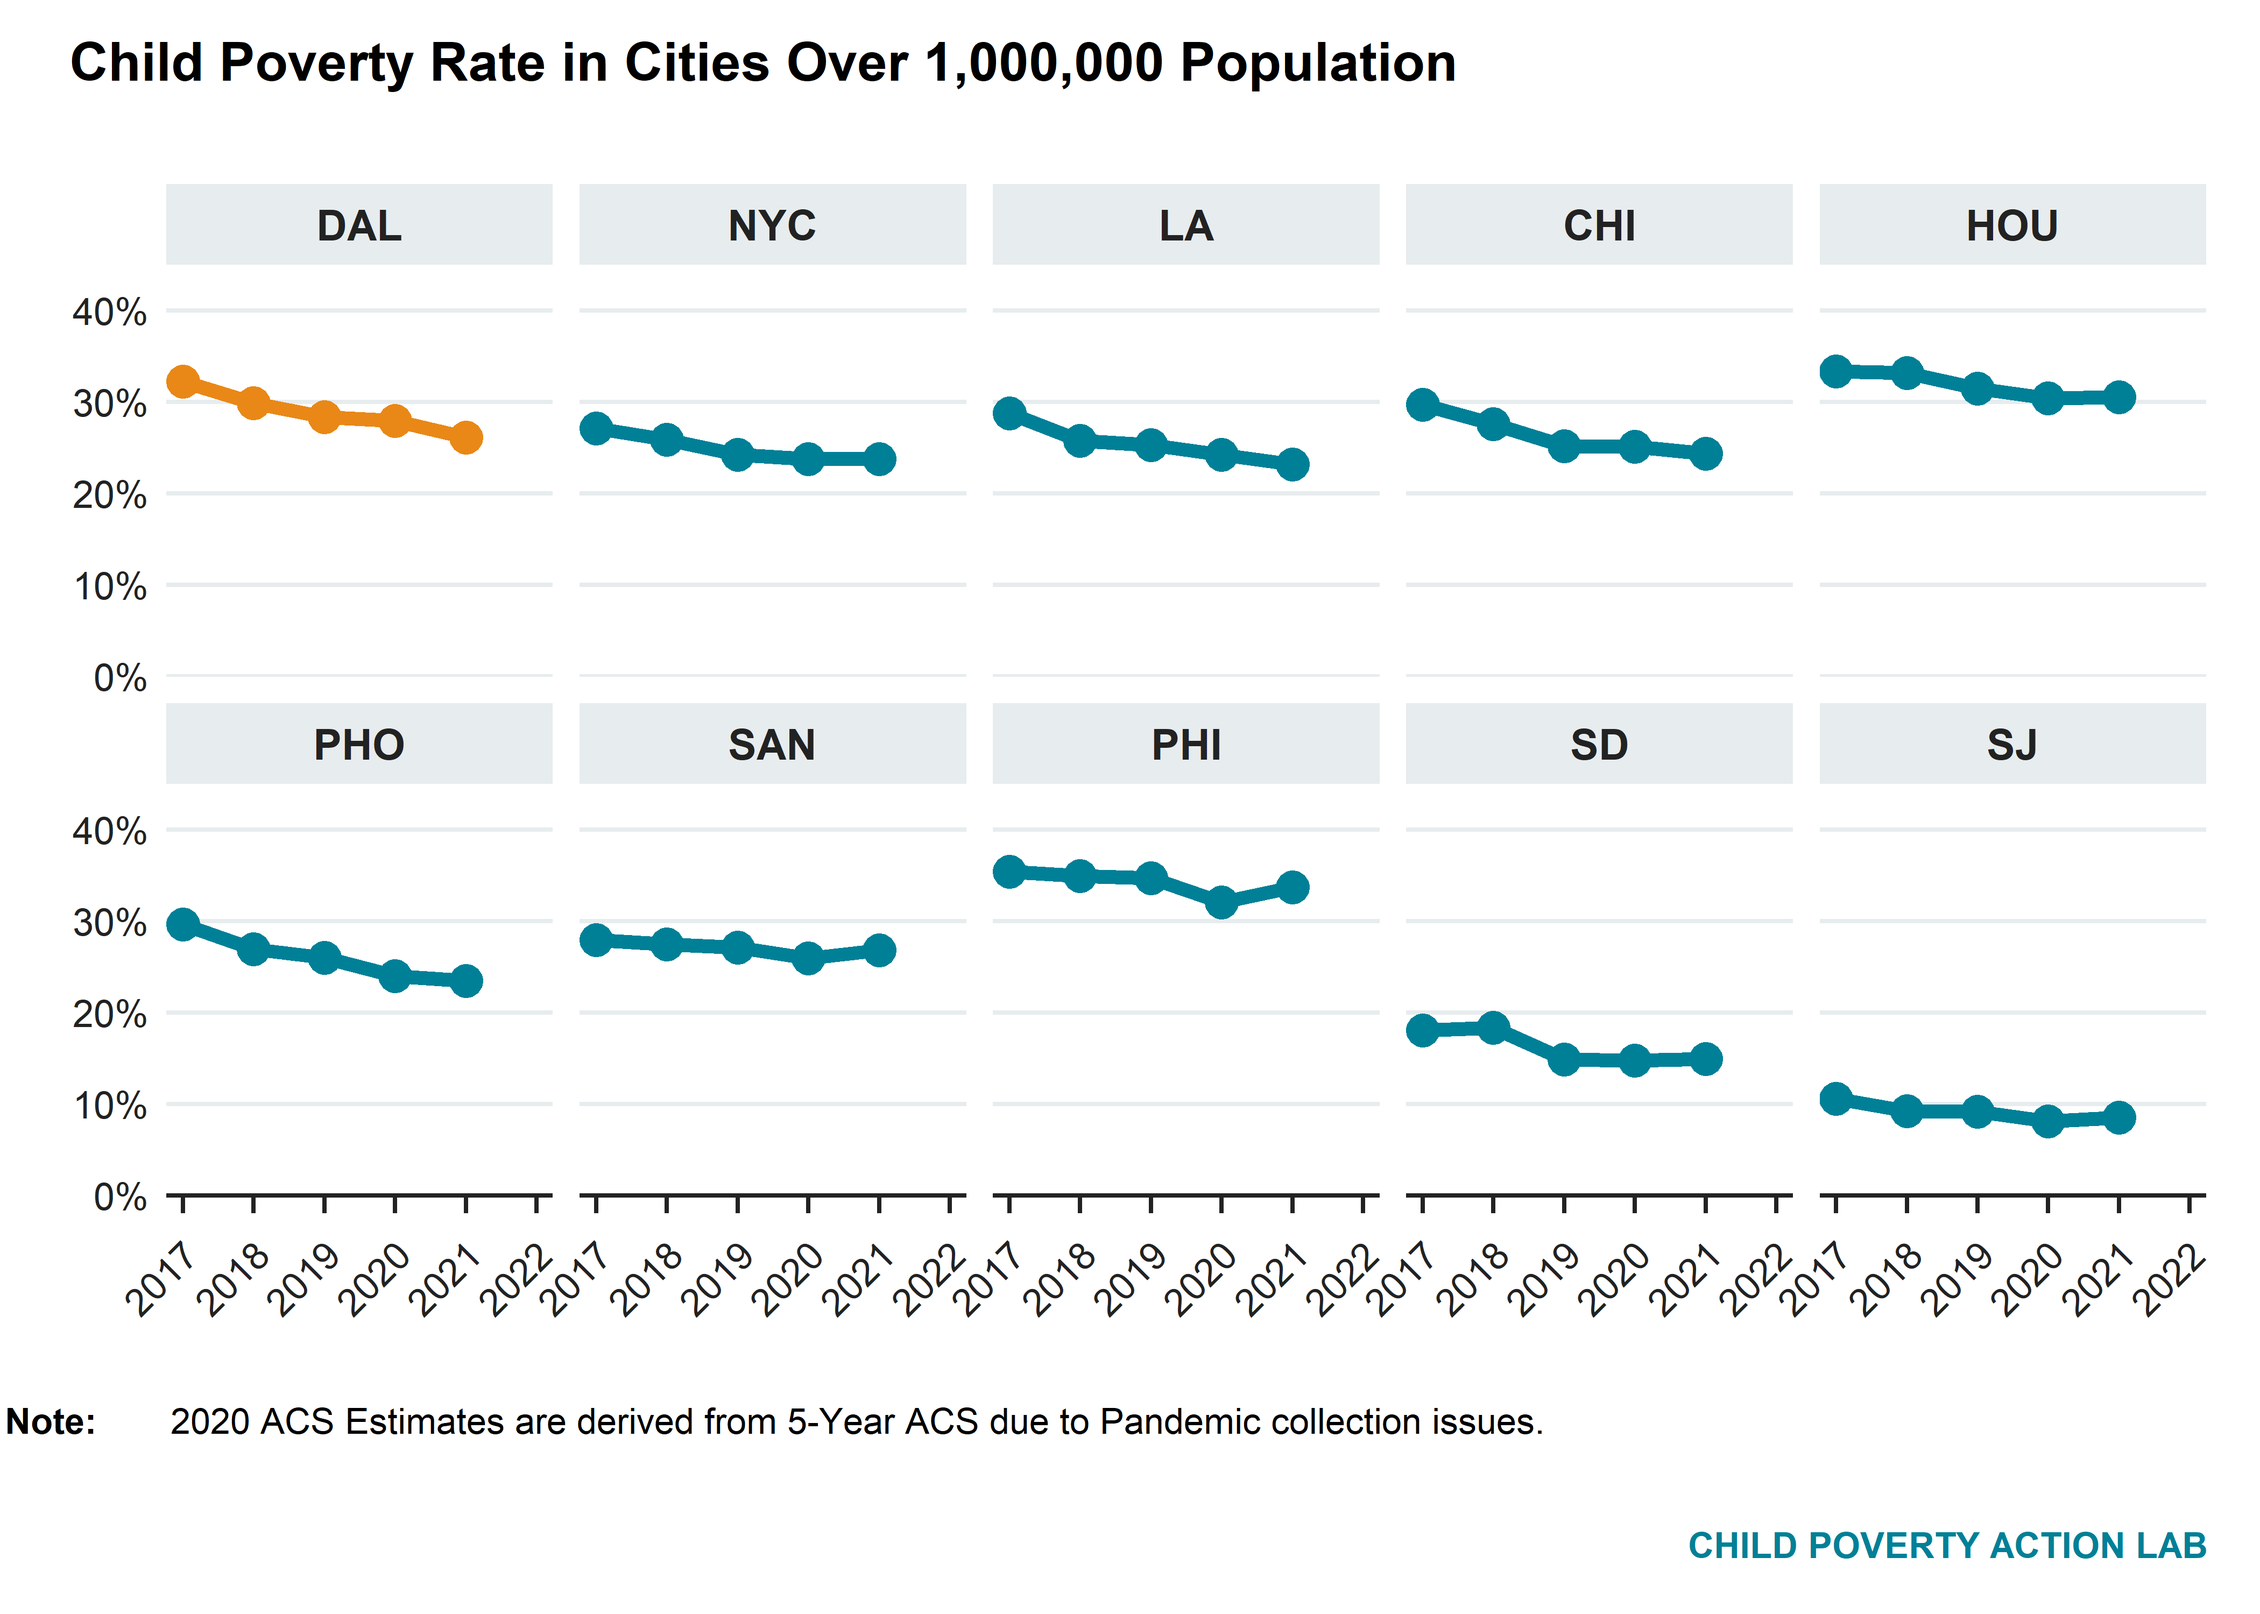
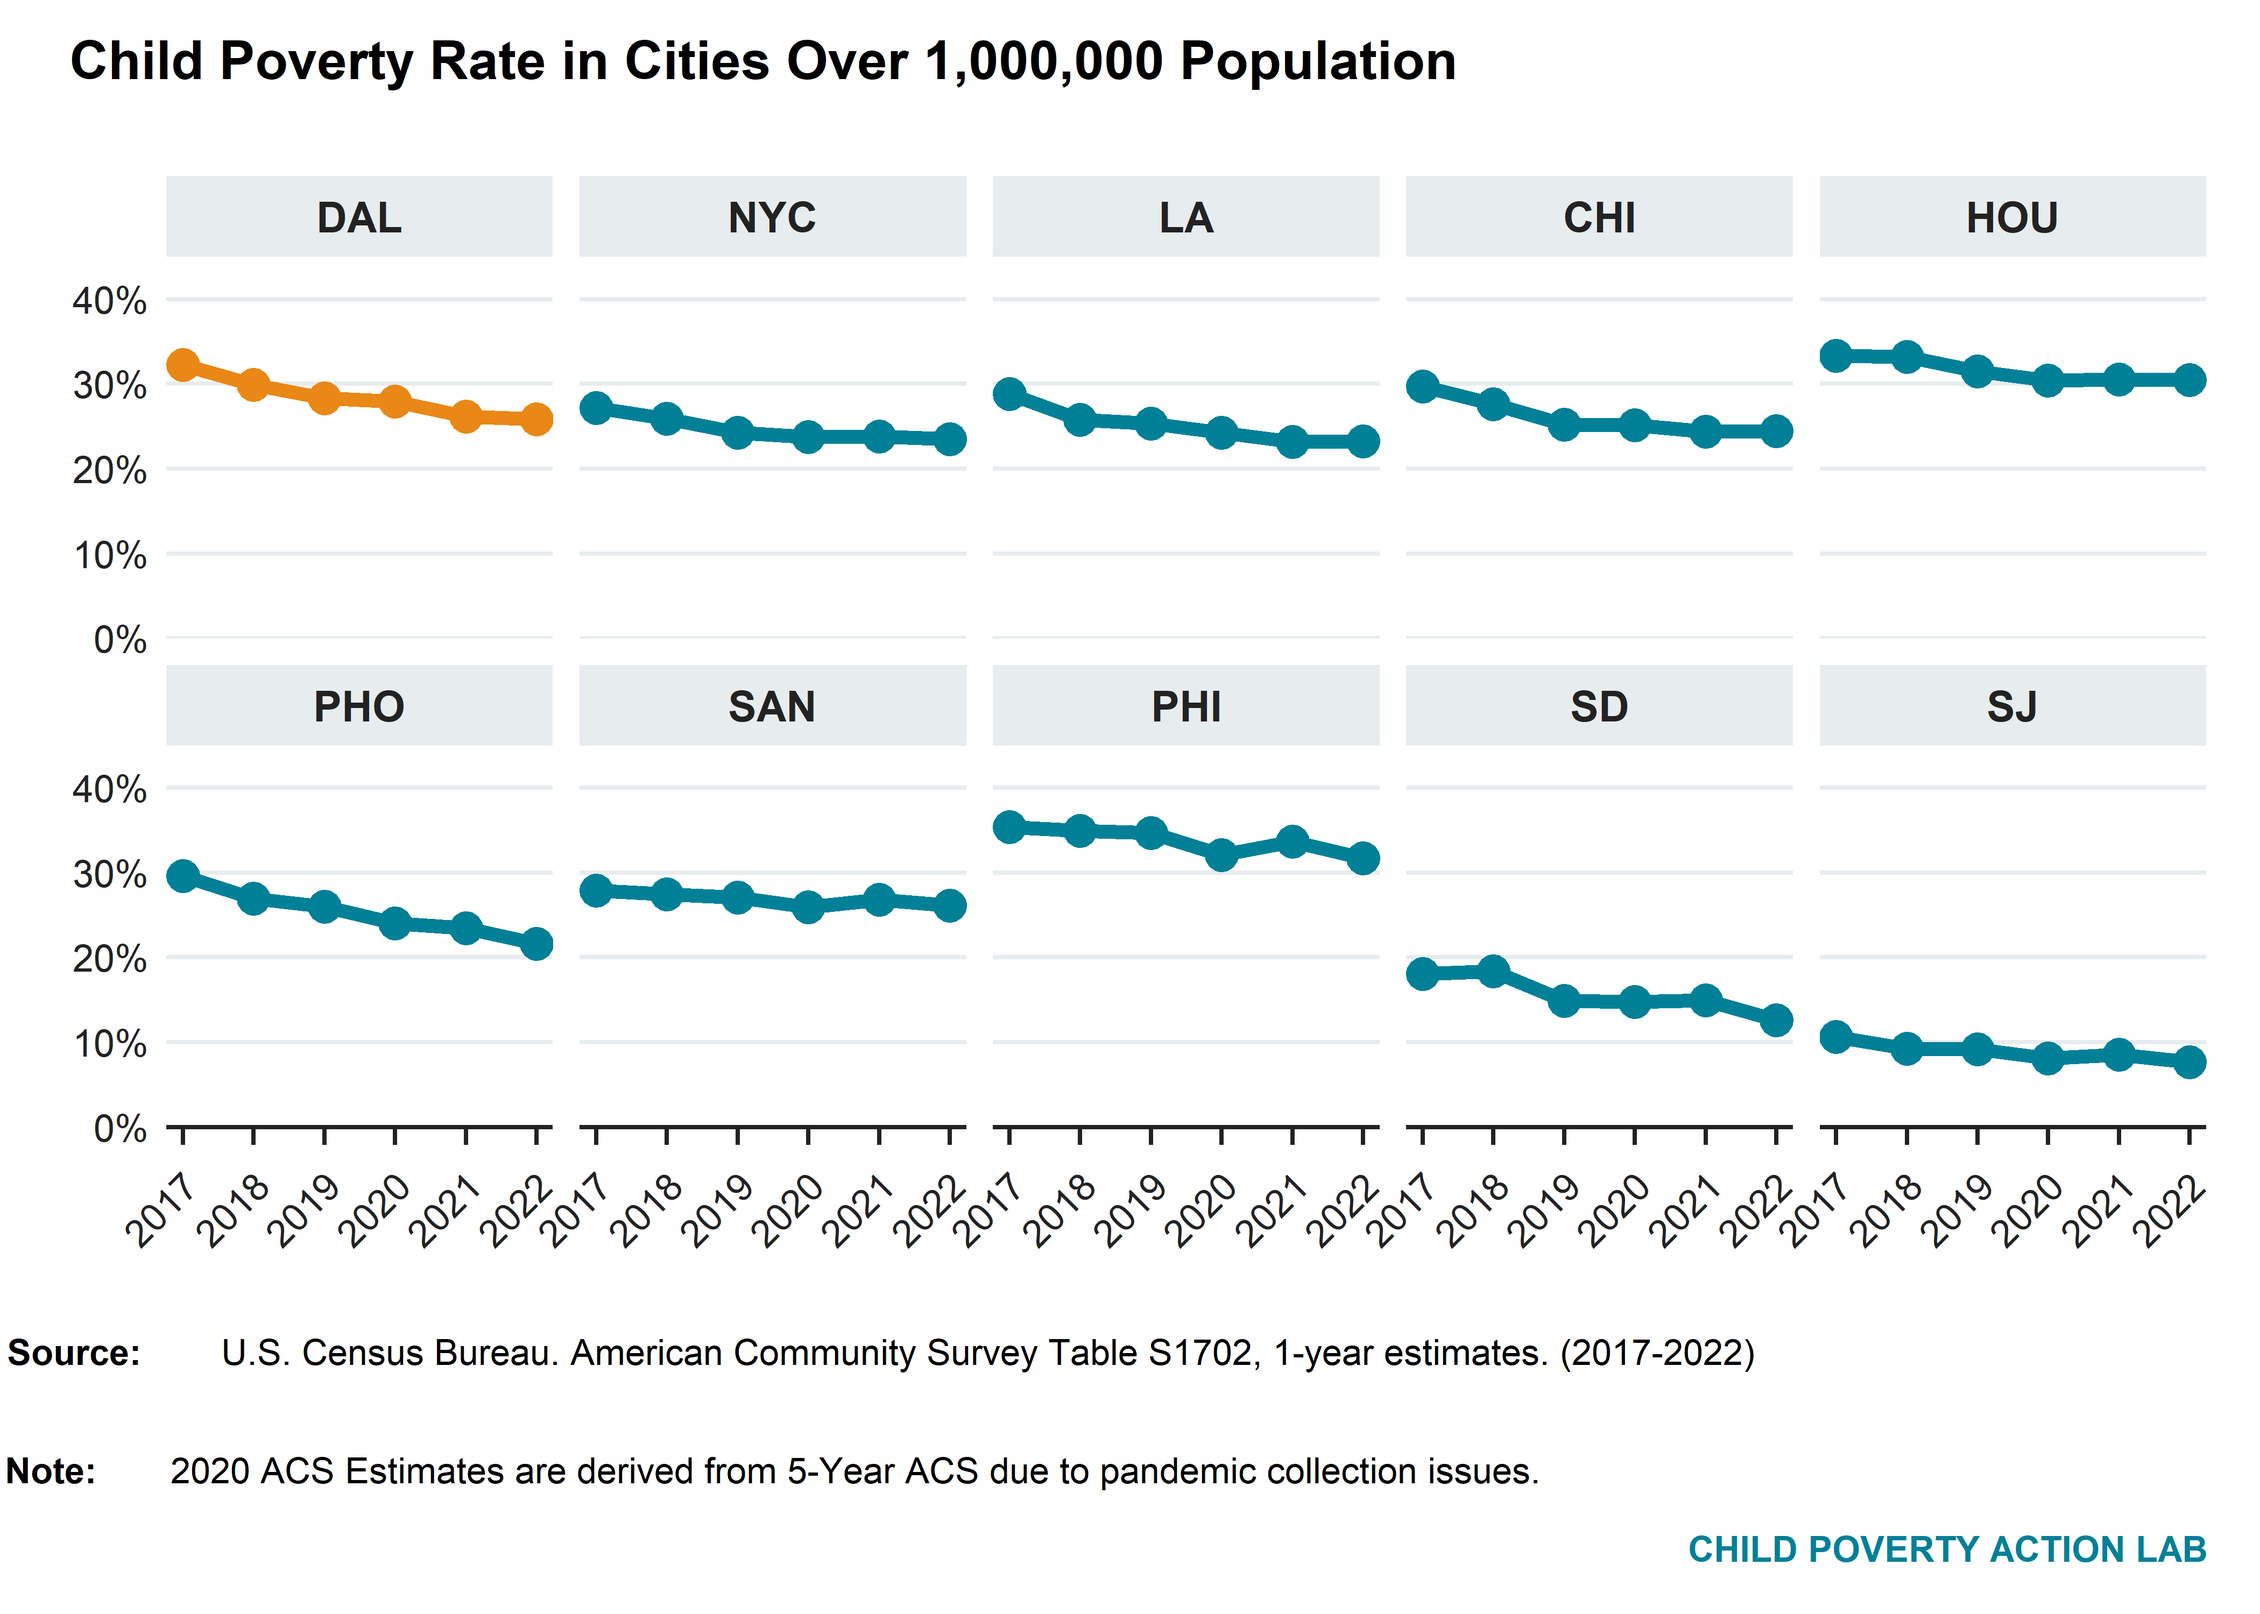
more changes!

diff --git a/docs/index.html b/docs/index.html
@@ -62,7 +62,7 @@ ul.task-list li input[type="checkbox"] {
 
 </head>
 
-<body class="nav-fixed">
+<body class="nav-fixed fullcontent">
 
 <div id="quarto-search-results"></div>
   <header id="quarto-header" class="headroom fixed-top">
@@ -111,24 +111,17 @@ ul.task-list li input[type="checkbox"] {
   </header><div id="quarto-content" class="quarto-container page-columns page-rows-contents page-layout-article page-navbar">
 <!-- sidebar -->
 <!-- margin-sidebar -->
-    <div id="quarto-margin-sidebar" class="sidebar margin-sidebar">
-        <nav id="TOC" role="doc-toc" class="toc-active">
-    <h2 id="toc-title">On this page</h2>
-   
-  <ul>
-  <li><a href="#the-child-poverty-rate-in-the-city-of-dallas-in-2021-is-23.8" id="toc-the-child-poverty-rate-in-the-city-of-dallas-in-2021-is-23.8" class="nav-link active" data-scroll-target="#the-child-poverty-rate-in-the-city-of-dallas-in-2021-is-23.8">The Child Poverty Rate in the City of Dallas in 2021 is 23.8%</a></li>
-  </ul>
-</nav>
-    </div>
+    
 <!-- main -->
 <main class="content quarto-banner-title-block" id="quarto-document-content">
 
 
 
 
-<section id="the-child-poverty-rate-in-the-city-of-dallas-in-2021-is-23.8" class="level1">
-<h1>The Child Poverty Rate in the City of Dallas in 2021 is 23.8%</h1>
-<p>According to estimates from the American Community Survey for 2021, there are now -22,308 fewer children in poverty within the City of Dallas than there were in 2017.</p>
+<section id="the-child-poverty-rate-in-the-city-of-dallas-in-2022-is-25.9" class="level1">
+<h1>The Child Poverty Rate in the City of Dallas in 2022 is 25.9%</h1>
+<p>According to estimates from the American Community Survey for 2022, there are now -25,768 fewer children in poverty within the City of Dallas than there were in 2017.</p>
+<p>This rate is calculated from the 3 year average of 1-year American Community Survey Estimates.</p>
 <div class="cell">
 <div class="cell-output-display">
 <p><img src="index_files/figure-html/Child Poverty in Dallas-1.png" class="img-fluid" width="2100"></p>
@@ -139,6 +132,9 @@ ul.task-list li input[type="checkbox"] {
 <p><img src="index_files/figure-html/Poverty by Race/Ethnicity-1.png" class="img-fluid" width="2100"></p>
 </div>
 </div>
+</section>
+<section id="compared-to-cities-with-a-population-over-1000000-the-city-dallas-has-the-fourth-highest-child-poverty-rate-in-2022" class="level1">
+<h1>Compared to cities with a population over 1,000,000, the City Dallas has the fourth highest Child Poverty Rate in 2022</h1>
 <div class="cell">
 <div class="cell-output-display">
 <p><img src="index_files/figure-html/Child Poverty Rate in Cities Over 1,000,000 Population-1.png" class="img-fluid" width="2100"></p>
@@ -154,7 +150,28 @@ ul.task-list li input[type="checkbox"] {
 <p><img src="index_files/figure-html/Poverty by Race/Ethnicity in Cities Over 1,000,000 Population-1.png" class="img-fluid" width="2100"></p>
 </div>
 </div>
+<section id="compared-to-large-neighboring-texas-cities-the-city-dallas-has-the-fourth-highest-child-poverty-rate-in-2022-in-texas." class="level2">
+<h2 data-anchor-id="compared-to-large-neighboring-texas-cities-the-city-dallas-has-the-fourth-highest-child-poverty-rate-in-2022-in-texas.">Compared to large neighboring Texas cities, the City Dallas has the fourth highest Child Poverty Rate in 2022 in Texas.</h2>
 <div class="cell">
+<div class="cell-output cell-output-stdout">
+<pre><code># A tibble: 6 × 45
+# Groups:   NAME [6]
+  GEOID NAME   YEAR tot_pop_1y pop_u18_1y pop_u5_1y pop_bp_1y bp_u18_1y bp_u5_1y
+  &lt;chr&gt; &lt;chr&gt; &lt;dbl&gt;      &lt;dbl&gt;      &lt;dbl&gt;     &lt;dbl&gt;     &lt;dbl&gt;     &lt;dbl&gt;    &lt;dbl&gt;
+1 4835… Hous…  2022    2275013     519052    152908    471670    177119    55230
+2 4824… El P…  2022     670859     168319     43883    145773     52153    15460
+3 4865… San …  2022    1442553     345379     91483    269701     95777    24931
+4 4819… Dall…  2022    1287358     306159     91372    228878     79237    23412
+5 4827… Fort…  2022     942038     247404     63445    113005     39409    12327
+6 4805… Aust…  2022     957101     166718     49380    106566     23302     8277
+# ℹ 36 more variables: mhi &lt;dbl&gt;, his_popE &lt;dbl&gt;, blk_popE &lt;dbl&gt;,
+#   asn_popE &lt;dbl&gt;, wht_popE &lt;dbl&gt;, his_bpE &lt;dbl&gt;, blk_bpE &lt;dbl&gt;,
+#   asn_bpE &lt;dbl&gt;, wht_bpE &lt;dbl&gt;, tot_pop_3y &lt;dbl&gt;, pop_u18_3y &lt;dbl&gt;,
+#   pop_u5_3y &lt;dbl&gt;, pop_bp_3y &lt;dbl&gt;, bp_u18_3y &lt;dbl&gt;, bp_u5_3y &lt;dbl&gt;,
+#   tot_pop_ch &lt;dbl&gt;, pop_u18_ch &lt;dbl&gt;, pop_u5_ch &lt;dbl&gt;, pop_bp_ch &lt;dbl&gt;,
+#   bp_u18_ch &lt;dbl&gt;, bp_u5_ch &lt;dbl&gt;, c5bp_1y &lt;dbl&gt;, c5bp_3y &lt;dbl&gt;,
+#   cbp_1y &lt;dbl&gt;, cbp_3y &lt;dbl&gt;, bp_1y &lt;dbl&gt;, bp_3y &lt;dbl&gt;, oth_bpE &lt;dbl&gt;, …</code></pre>
+</div>
 <div class="cell-output-display">
 <p><img src="index_files/figure-html/Child Poverty Rate in Texas Cities-1.png" class="img-fluid" width="2100"></p>
 </div>
@@ -171,6 +188,7 @@ ul.task-list li input[type="checkbox"] {
 </div>
 
 
+</section>
 </section>
 
 </main> <!-- /main -->
